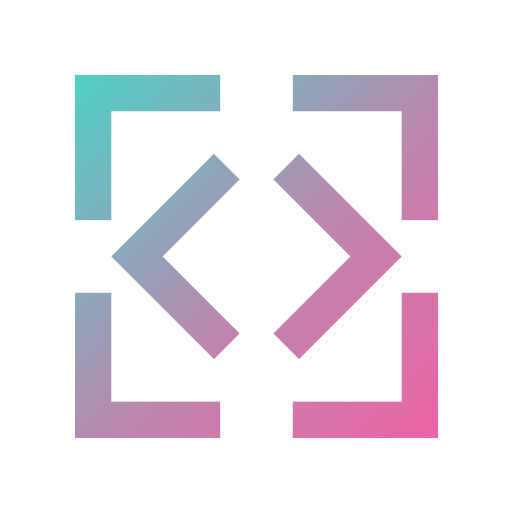
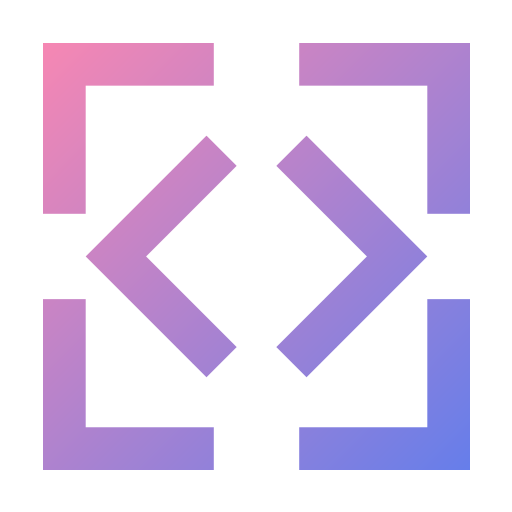
Clean it up a bit, readme, color change

diff --git a/pages/_app.js b/pages/_app.js
@@ -16,8 +16,10 @@ function App() {
   const [lang, langSelect] = React.useState("javascript");
   const [gist, setGist] = React.useState("");
   const [loaded, setLoaded] = React.useState(false);
+  const [attribution, setAttribution] = React.useState("snippetshot.com");
 
-  const [colors, setColors] = React.useState(["rgb(129, 230, 217)", "rgb(251, 182, 206)"]);
+  // const [colors, setColors] = React.useState(["rgb(129, 230, 217)", "rgb(251, 182, 206)"]);
+  const [colors, setColors] = React.useState(["rgb(254, 215, 226)", "rgb(190, 227, 248)"]);
   const [angle, setAngle] = React.useState("150");
 
   React.useEffect(() => {
@@ -112,7 +114,7 @@ function App() {
       <div className="container mx-auto mw-1/2 p-6">
         <div className="flex justify-center items-stretch">
           <img src="/snippet-shot.svg" alt="Snippet Shot Logo" className="w-6 opacity-75" />
-          <h1 id="title" className="ml-4 text-center text-pink-600 text-4xl font-mono font-bold uppercase">
+          <h1 id="title" className="ml-4 text-center text-gray-700 text-5xl font-mono font-bold uppercase">
             Snippet Shot
           </h1>
         </div>
@@ -146,27 +148,41 @@ function App() {
                     />
                   )}
                 </div>
-                <div className="flex justify-center absolute bottom-0 mb-4 opacity-75 right-0 left-0 w-full">
-                  <div className="px-2 bg-white text-gray-600 rounded-full text-xs whitespace-no-wrap">snippetshot.com</div>
-                </div>
+                {attribution.length > 0 && (
+                  <div className="flex justify-center absolute bottom-0 mb-4 opacity-75 right-0 left-0 w-full">
+                    <div className="px-2 bg-white text-gray-600 rounded-full text-xs whitespace-no-wrap">{attribution}</div>
+                  </div>
+                )}
               </div>
             </div>
           </ResizableBox>
         </div>
-        <div className="flex my-4 justify-center">
-          <button className="shadow border rounded py-2 px-3 text-gray-700 leading-tight" onClick={download}>
+        <div className="flex my-6 justify-center">
+          <button
+            className="shadow border rounded py-2 px-3 text-gray-700 leading-tight hover:shadow-lg transition-all duration-200"
+            onClick={download}
+          >
             Download your Snippet Shot
           </button>
         </div>
-        <div className="mb-4">
-          <label className="block text-gray-600 text-sm font-bold mb-2" htmlFor="gist">
-            Github gist url <span className="font-normal text-xs text-gray-500">(or just paste your code in the edit window below)</span>
+        <div className="mb-4 grid grid-cols-3">
+          <label className="block text-gray-600 text-sm font-bold mb-2 col-span-2" htmlFor="gist">
+            Github gist url <span className="font-normal text-xs text-gray-500">(or just paste your code in the edit window above)</span>
             <input
               className="shadow appearance-none border rounded w-full py-2 px-3 text-gray-700 leading-tight focus:outline-none focus:shadow-outline"
               id="gist"
               type="url"
               placeholder="url"
               onChange={getGist}
+            />
+          </label>
+          <label className="block text-gray-600 text-sm font-bold mb-2 ml-2">
+            Attribution
+            <input
+              type="text"
+              value={attribution}
+              onChange={(e) => setAttribution(e.target.value)}
+              className="shadow appearance-none border rounded w-full py-2 px-3 text-gray-700 leading-tight focus:outline-none focus:shadow-outline"
             />
           </label>
         </div>
@@ -200,7 +216,6 @@ function App() {
             <br />
             <input
               className="shadow appearance-none border rounded w-full py-2 px-3 text-gray-700 leading-tight focus:outline-none focus:shadow-outline"
-              id="gist"
               type="number"
               placeholder="Gradient rotation"
               min="0"

diff --git a/components/ColorPicker.js b/components/ColorPicker.js
@@ -4,7 +4,7 @@ import ColorBlock from './ColorBlock';
 
 const ColorPicker = (props) => {
   const { colors, setColors } = props;
-  const [selected, setSelected] = React.useState(["teal-300", "pink-300"]);
+  const [selected, setSelected] = React.useState(["pink-200", "blue-200"]);
   const baseColors = ["gray", "red", "orange", "yellow", "green", "teal", "blue", "indigo", "purple", "pink"];
   const intensities = [100, 200, 300, 400, 500, 600, 700, 800, 900];
   const colorIntensities = [];

diff --git a/styles/index.css b/styles/index.css
@@ -50,7 +50,8 @@ code {
 }
 
 h1#title {
-  background: linear-gradient(170deg, rgb(129, 230, 217), rgb(246, 135, 179));
+  /* background: linear-gradient(170deg, rgb(129, 230, 217), rgb(246, 135, 179)); */
+  background: linear-gradient(150deg, rgb(246, 135, 179), rgb(102, 126, 234));
   background-clip: text;
   -webkit-background-clip: text;
   -webkit-text-fill-color: transparent;

diff --git a/README.md b/README.md
@@ -1,30 +1,22 @@
-This is a [Next.js](https://nextjs.org/) project bootstrapped with [`create-next-app`](https://github.com/vercel/next.js/tree/canary/packages/create-next-app).
+# Snippet Shot
 
-## Getting Started
+This was meant as a simple tool for myself, but I decided to release it publicly anyway. It might benefit someone! It's made as a no-frills tool. The options should be minimal and it should align with my own preferences.
 
-First, run the development server:
+Contributions are welcome, but aware that it should not be a [Carbon](https://carbon.now.sh) clone. It's familiar but with less options and more opinionated about the resulting look of the code snippet.
 
-```bash
-npm run dev
-# or
-yarn dev
-```
+So the feature set will remain sparse, but there's a few areas I think we could improve on:
 
-Open [http://localhost:3000](http://localhost:3000) with your browser to see the result.
+- Adding more languages! I've been lazy and just added the languages I use the most.
+- Storing the last-used settings in localstorage (and retreiving them, obviously)
+- Adding a custom watermark image (e.g. a logo or something) on one of 8 positions (left, right, center x top, middle, bottom).
+- Doing some more work on cross-browser
+- Make the starting background gradient random (or picked from a preselected set of good-looking gradients)
+- Make it better on mobile
+- Dark mode
+- Going over the code and cleaning it up a bit
 
-You can start editing the page by modifying `pages/index.js`. The page auto-updates as you edit the file.
+So plenty to think about!
 
-## Learn More
+## Contributing
 
-To learn more about Next.js, take a look at the following resources:
-
-- [Next.js Documentation](https://nextjs.org/docs) - learn about Next.js features and API.
-- [Learn Next.js](https://nextjs.org/learn) - an interactive Next.js tutorial.
-
-You can check out [the Next.js GitHub repository](https://github.com/vercel/next.js/) - your feedback and contributions are welcome!
-
-## Deploy on Vercel
-
-The easiest way to deploy your Next.js app is to use the [Vercel Platform](https://vercel.com/import?utm_medium=default-template&filter=next.js&utm_source=create-next-app&utm_campaign=create-next-app-readme) from the creators of Next.js.
-
-Check out our [Next.js deployment documentation](https://nextjs.org/docs/deployment) for more details.
+Contributions are welcome! If you think you can add something or found a bug, please open an issue first.
